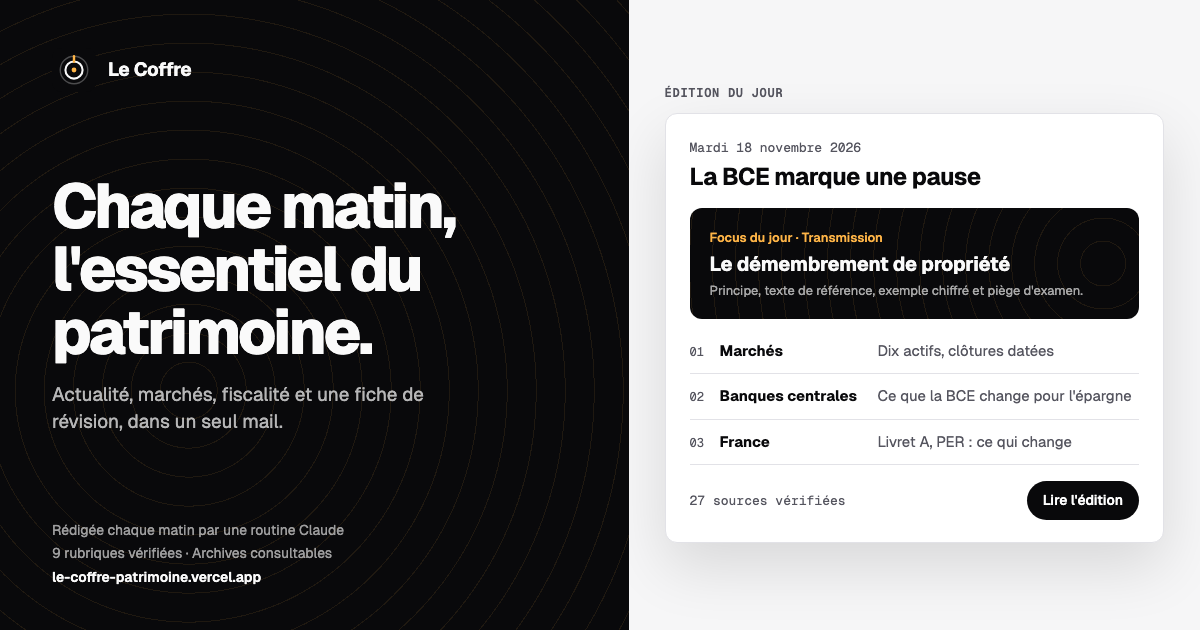
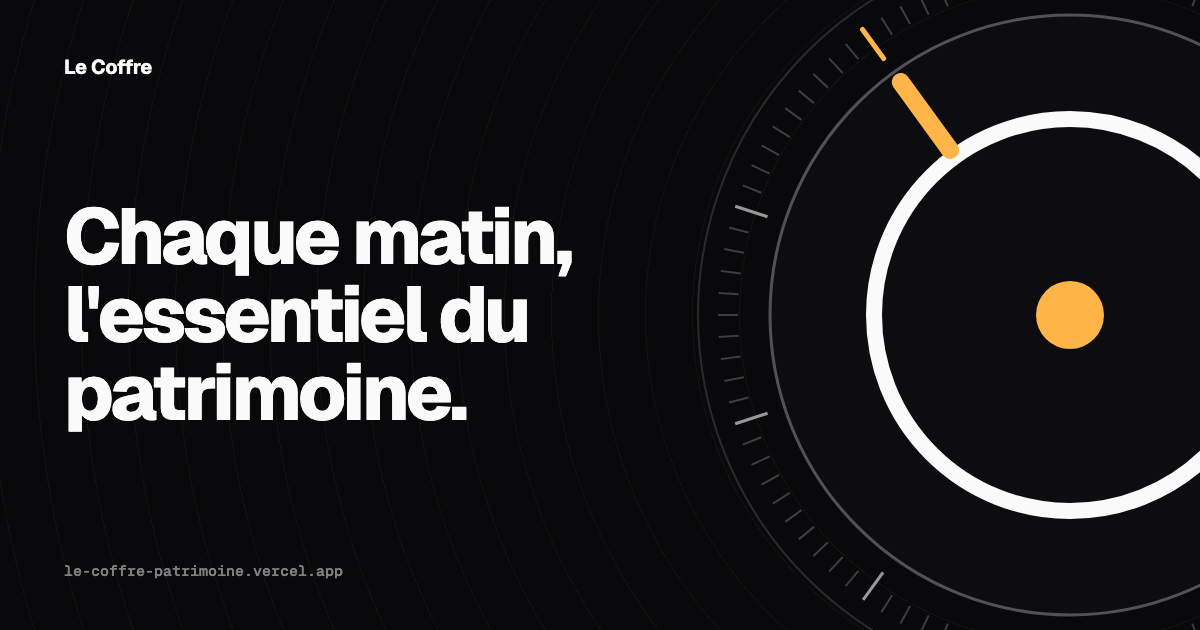
Le Coffre : image de partage autour du cadran, moins de texte

diff --git a/index.html b/index.html
@@ -16,7 +16,7 @@
 <meta property="og:image" content="https://le-coffre-patrimoine.vercel.app/og.png">
 <meta property="og:image:width" content="1200">
 <meta property="og:image:height" content="630">
-<meta property="og:image:alt" content="Affiche du Coffre : « Chaque matin, l'essentiel du patrimoine », à côté d'une édition de la newsletter.">
+<meta property="og:image:alt" content="Affiche du Coffre : « Chaque matin, l'essentiel du patrimoine », à côté du cadran doré du logo.">
 <meta name="twitter:card" content="summary_large_image">
 <script>try { const t = localStorage.getItem("coffre-theme"); if (t && t !== "auto") document.documentElement.dataset.theme = t; } catch (e) {}</script>
 </head>
